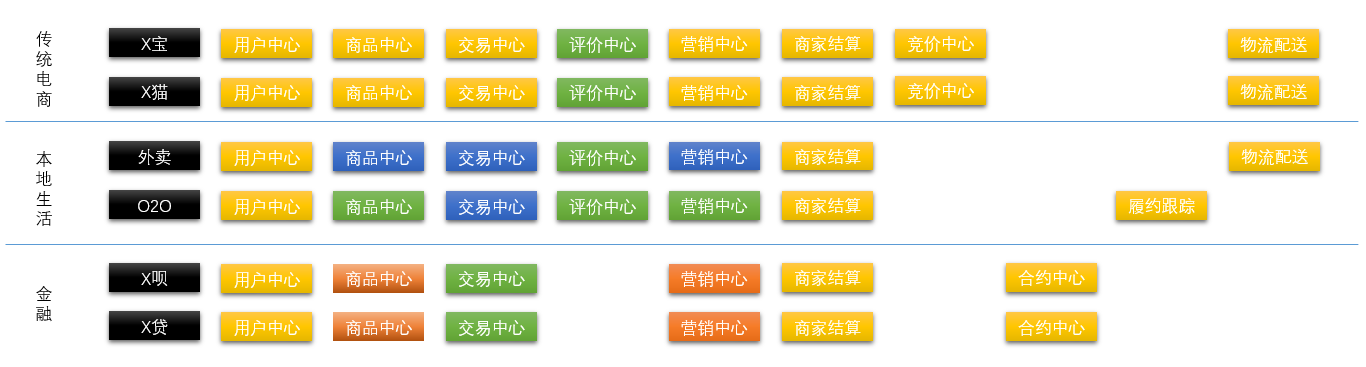
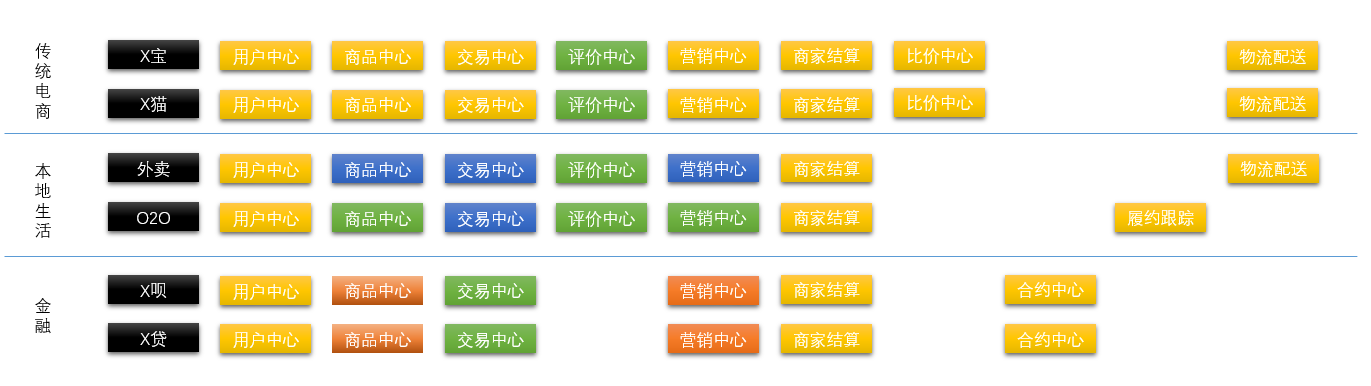
fix

diff --git a/_posts/2019-9-24-what-is-mid-platform.md b/_posts/2019-9-24-what-is-mid-platform.md
@@ -135,7 +135,7 @@ mathjax: true
 * 同样的商家结算，一般都是B2B之间的资金往来，业务不同仅仅影响的是交易凭证的描述不同，其他的结算方式等完全可以复用。
 * 商品中心，看起来各个业务都有商品中心，但是各个业务线的商品结构可能存在差异，比如金融和传统电商的商品中心，其实现逻辑应当是不一样的。当然，硬要把金融产品标上价格，打上SKU去传统电商前台去卖，也是可以的，只是这种方式带来的问题需要事先想好怎么克服，例如，谁来配置这些SKU，谁来进行商品售后等等。
 * 一般涉及货物差异性的业务，都会用到评价中心，这是对商户货物品质的一种用户反馈。而在金融行业的贷款业务看来一般不会对不同的资金提供方去做评价，不排除其他业务会有，比如基金业务等。
-* 而有些领域是业务特有的，比如电商经常需要用到竞价中心，它负责对手商品价格的抓取和匹配等。
+* 而有些领域是业务特有的，比如电商经常需要用到比价中心，它负责对手商品价格的抓取和匹配等。
 
 **(5) 严格遵循开闭原则，从底至上的去实施**
 
